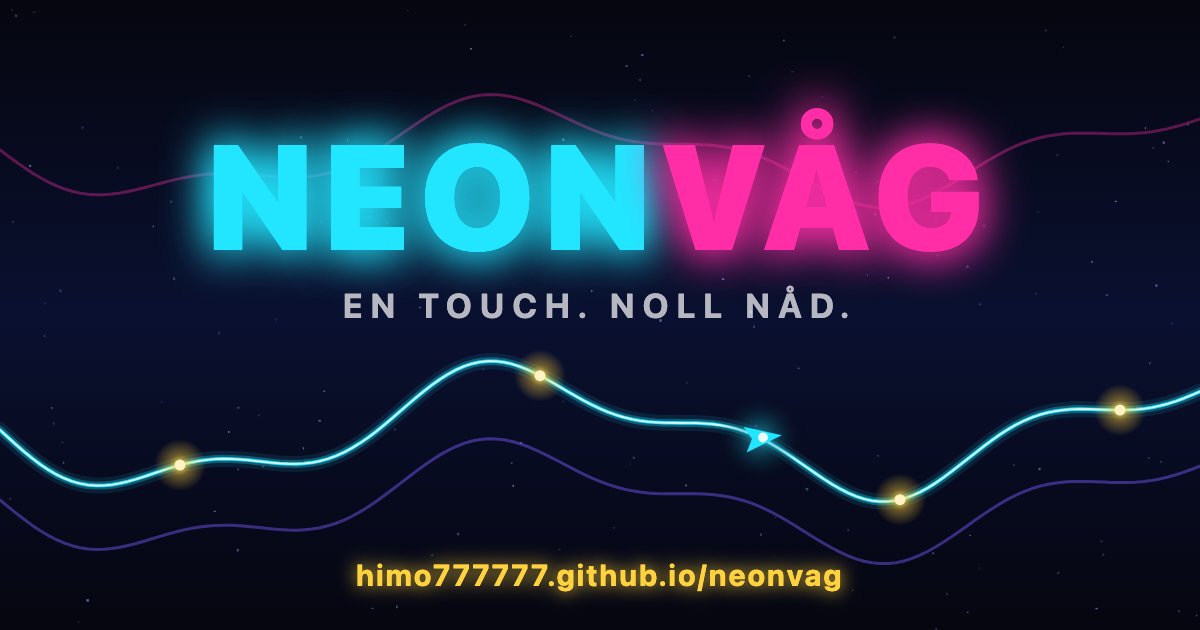
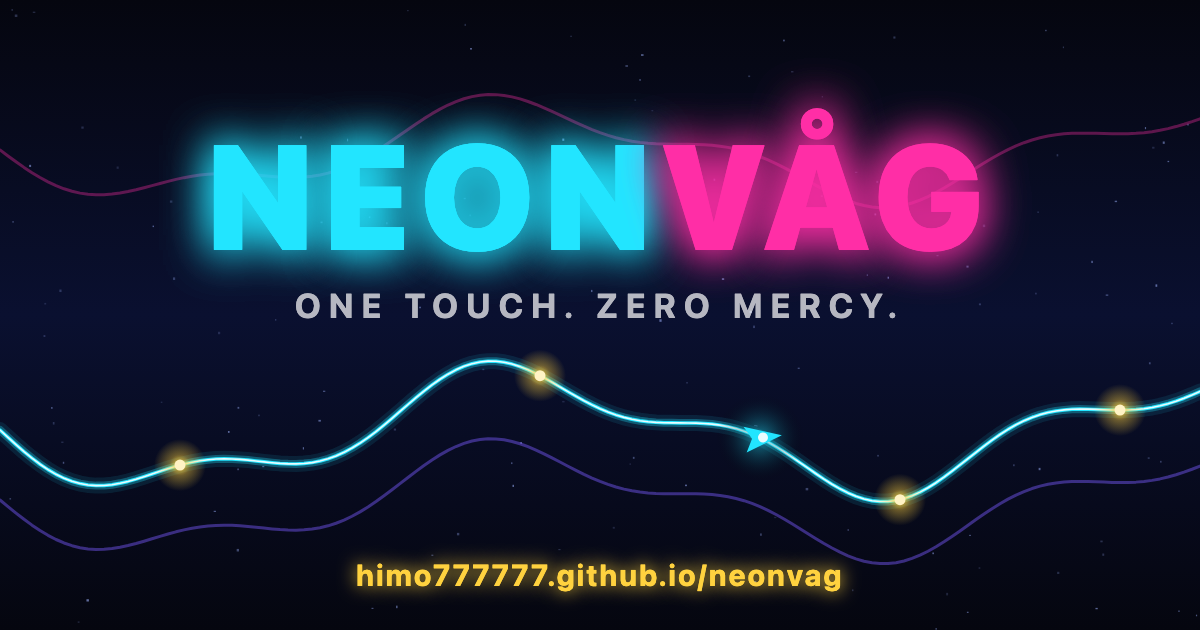
launch patch: per-level best scores + live HUD best, SUPPORT_URL button (hidden until real link), PostHog dispatch layer (BLOCKED until key), English default language + English metadata/og-image
- BEST bug: level runs now persist per-level bests (nv_lvlbest) shown on the level
  result panel; HUD best updates live when the current score passes it
- events renamed to spec: retry, share_attempt, share_success; game_start/game_over
  now fire in level mode too (with level number); dispatch whitelist of 6 events,
  anonymous device id only, no PII, no session recording
- no ads added; gameplay/levels/difficulty/design/navigation untouched

Changed region(s): [[0.2467, 0.4524, 0.74, 0.5127]]

diff --git a/index.html b/index.html
@@ -1,5 +1,5 @@
 <!DOCTYPE html>
-<html lang="sv">
+<html lang="en">
 <head>
 <meta charset="UTF-8">
 <meta name="viewport" content="width=device-width, initial-scale=1.0, maximum-scale=1.0, user-scalable=no, viewport-fit=cover">
@@ -8,19 +8,19 @@
 <meta name="apple-mobile-web-app-status-bar-style" content="black-translucent">
 <meta name="mobile-web-app-capable" content="yes">
 <title>NEONVÅG</title>
-<meta name="description" content="NEONVÅG – ett one-touch neonspel. Håll för att stiga, släpp för att dyka. Daglig bana och oändligt läge. En touch. Noll nåd.">
+<meta name="description" content="NEONVÅG – a one-touch neon wave game. Hold to rise, release to dive. Daily track, 12 levels and endless mode. One touch. Zero mercy.">
 <link rel="canonical" href="https://himo777777.github.io/neonvag/">
 <meta property="og:type" content="website">
 <meta property="og:site_name" content="NEONVÅG">
 <meta property="og:title" content="NEONVÅG">
-<meta property="og:description" content="En touch. Noll nåd. Håll = stig, släpp = dyk. Klarar du dagens bana?">
+<meta property="og:description" content="One touch. Zero mercy. Hold = rise, release = dive. Can you beat today's daily track?">
 <meta property="og:url" content="https://himo777777.github.io/neonvag/">
 <meta property="og:image" content="https://himo777777.github.io/neonvag/assets/og-image.png">
 <meta property="og:image:width" content="1200">
 <meta property="og:image:height" content="630">
 <meta name="twitter:card" content="summary_large_image">
 <meta name="twitter:title" content="NEONVÅG">
-<meta name="twitter:description" content="En touch. Noll nåd. One touch. Zero mercy.">
+<meta name="twitter:description" content="One touch. Zero mercy. Hold = rise, release = dive.">
 <meta name="twitter:image" content="https://himo777777.github.io/neonvag/assets/og-image.png">
 <style>
 :root{--sat:env(safe-area-inset-top,0px);--sab:env(safe-area-inset-bottom,0px)}
@@ -70,6 +70,7 @@ body{font-family:'Segoe UI',system-ui,-apple-system,Roboto,sans-serif;color:#fff
 .modes{margin-top:26px;pointer-events:auto}
 .modes .btn{margin-top:10px}
 .btn-gold{background:linear-gradient(90deg,#ffd23f,#ff8a3d);border:none;box-shadow:0 0 24px rgba(255,210,63,.4);color:#231a00}
+.btn-support{opacity:.55;font-size:11px;padding:10px 0;background:transparent;border:1px solid rgba(255,255,255,.14);letter-spacing:.18em}
 .overStats{margin-top:14px;font-size:12px;letter-spacing:.12em;opacity:.6}
 .dailyTag{margin-top:6px;font-size:11px;letter-spacing:.28em;color:#ffd23f;opacity:.9}
 .lvTitle{font-weight:900;letter-spacing:.28em;font-size:15px;margin-bottom:14px}
@@ -105,6 +106,7 @@ body{font-family:'Segoe UI',system-ui,-apple-system,Roboto,sans-serif;color:#fff
       <button class="btn btn-gold" id="btnDaily"></button>
       <button class="btn" id="btnLevels"></button>
       <button class="btn" id="btnEndless"></button>
+      <button class="btn btn-support hidden" id="btnSupport"></button>
     </div>
     <p class="start pulse" id="startHint"></p>
     <p class="how" id="howHint"></p>
@@ -124,6 +126,7 @@ body{font-family:'Segoe UI',system-ui,-apple-system,Roboto,sans-serif;color:#fff
     <button class="btn btn-primary" id="btnAgain"></button>
     <button class="btn" id="btnShare"></button>
     <button class="btn hidden" id="btnMenu"></button>
+    <button class="btn btn-support hidden" id="btnSupport2"></button>
     <button class="btn btn-ad" id="btnRevive"></button>
   </div>
 </div>
@@ -177,15 +180,30 @@ body{font-family:'Segoe UI',system-ui,-apple-system,Roboto,sans-serif;color:#fff
 const PLAY_URL='https://himo777777.github.io/neonvag/';
 const PLAY_URL_SHORT='himo777777.github.io/neonvag';
 const AD_DEMO=false;
-const ANALYTICS_CONFIG={provider:null /* BLOCKED: no analytics provider or keys configured at soft launch.
-   When a provider is chosen (Plausible/Umami/GA4), implement dispatch inside trackEvent(). */};
+/* Support/payment link (e.g. a Stripe Payment Link). The button stays hidden
+   until this is replaced with a real https:// URL. */
+const SUPPORT_URL='PASTE_REAL_PAYMENT_LINK_HERE';
+const supportOn=u=>/^https:\/\//.test(u===undefined?SUPPORT_URL:u);
+/* Analytics: PostHog HTTP capture. BLOCKED until a real project API key is pasted
+   into key below — until then events only buffer locally in window.nvEvents.
+   No names, emails or other personal data are collected; distinct_id is an
+   anonymous random device id. No session recording, no DOM capture. */
+const ANALYTICS_CONFIG={provider:'posthog',key:'',host:'https://eu.i.posthog.com'};
+const ANALYTICS_SEND=['game_start','game_over','retry','share_attempt','share_success','support_click'];
 window.nvEvents=window.nvEvents||[];
 function trackEvent(name,props){
   const e={name:name,props:props||{},ts:Date.now(),lang:lang};
   window.nvEvents.push(e);
   if(window.nvEvents.length>200)window.nvEvents.shift();
   try{console.debug('[nv-analytics]',name,e.props);}catch(_){}
-  if(ANALYTICS_CONFIG.provider){/* future dispatch */}
+  if(ANALYTICS_CONFIG.key&&ANALYTICS_SEND.indexOf(name)>-1){
+    try{
+      let did=localStorage.getItem('nv_did');
+      if(!did){did=Math.random().toString(36).slice(2)+Date.now().toString(36);localStorage.setItem('nv_did',did);}
+      fetch(ANALYTICS_CONFIG.host+'/capture/',{method:'POST',headers:{'Content-Type':'application/json'},
+        body:JSON.stringify({api_key:ANALYTICS_CONFIG.key,event:name,distinct_id:did,properties:e.props})});
+    }catch(_){}
+  }
 }
 const cv=document.getElementById('game'),ctx=cv.getContext('2d');
 const $=id=>document.getElementById(id);
@@ -198,7 +216,7 @@ const SAFE_TOP=()=>parseFloat(getComputedStyle(document.documentElement).getProp
 /* ---------- i18n ---------- */
 const STR={
 sv:{tag:'En touch. Noll nåd.',start:'eller tryck var som helst',how:'HÅLL = stig   ·   SLÄPP = dyk',best:'REKORD',scoreLbl:'POÄNG',share:'DELA REKORD',again:'SPELA IGEN',revive:'FORTSÄTT – ANNONSDEMO',adT:'ANNONS-DEMO',adN:'Här kopplas AdMob / Unity Ads in vid publicering.',newBest:'NYTT REKORD!',surf:'KANTSURF!',paused:'PAUSAD',resume:'TRYCK FÖR ATT FORTSÄTTA',shareT:s=>'Jag fick '+s+' poäng i NEONVÅG – kan du slå mig?',lock:n=>'Låses upp vid '+n+' poäng',shShared:'Delat!',shCopied:'Text & länk kopierad!',shCancel:'Delning avbruten',shFail:'Delning misslyckades',daily:'DAGENS BANA',endless:'OÄNDLIG',dailyBest:'DITT DAGSREKORD',dailyTag:'DAGENS BANA',frenzy:'RUS!',shareTD:(s,d)=>'Dagens bana '+d+' i NEONVÅG: '+s+' poäng – slå det om du kan!',stats:(m,o,x)=>'Distans '+m+' m · Kulor '+o+' · Max ×'+x,
-levels:'NIVÅER',lvlSelect:'VÄLJ NIVÅ',back:'TILLBAKA',next:'NÄSTA NIVÅ',retry:'FÖRSÖK IGEN',lvlN:n=>'NIVÅ '+n,lvlDone:'NIVÅ KLAR!',lvlFail:'NÄSTAN!',goalLbl:'MÅL',menu:'HUVUDMENY',
+levels:'NIVÅER',lvlSelect:'VÄLJ NIVÅ',back:'TILLBAKA',next:'NÄSTA NIVÅ',retry:'FÖRSÖK IGEN',lvlN:n=>'NIVÅ '+n,lvlDone:'NIVÅ KLAR!',lvlFail:'NÄSTAN!',goalLbl:'MÅL',menu:'HUVUDMENY',support:'SUPPORTA NEONVÅG',
 puShield:'SKÖLD!',puMagnet:'MAGNET!',puSlow:'SLOW-MO!',puShieldUsed:'SKÖLDEN RÄDDADE DIG!',
 achUnlocked:'🏆 PRESTATION!',streak:'DAGLIG SVIT',streakDays:n=>'🔥 '+n+(n===1?' dag':' dagar'),
 lockLvl:n=>'Klara '+n+' nivåer för att låsa upp',lockAch:a=>'Kräver prestation: '+a,lockStreak:n=>'Kräver '+n+' dagars svit',
@@ -214,7 +232,7 @@ ach_streak3:'TREDAGARSSVIT',achd_streak3:'Spela dagens bana 3 dagar i rad',
 ach_streak7:'VECKOSVIT',achd_streak7:'7 dagar i rad',
 ach_level5:'BANVETERAN',achd_level5:'Klara nivå 5'},
 en:{tag:'One touch. Zero mercy.',start:'or tap anywhere',how:'HOLD = rise   ·   RELEASE = dive',best:'BEST',scoreLbl:'SCORE',share:'SHARE SCORE',again:'PLAY AGAIN',revive:'CONTINUE – AD DEMO',adT:'AD DEMO',adN:'AdMob / Unity Ads plugs in here on release.',newBest:'NEW BEST!',surf:'EDGE SURF!',paused:'PAUSED',resume:'TAP TO RESUME',shareT:s=>'I scored '+s+' in NEONVÅG – beat that!',lock:n=>'Unlocks at '+n+' points',shShared:'Shared!',shCopied:'Text & link copied!',shCancel:'Share cancelled',shFail:'Share failed',daily:'DAILY TRACK',endless:'ENDLESS',dailyBest:'YOUR DAILY BEST',dailyTag:'DAILY TRACK',frenzy:'RUSH!',shareTD:(s,d)=>'Daily track '+d+' in NEONVÅG: '+s+' points – beat it if you can!',stats:(m,o,x)=>'Distance '+m+' m · Orbs '+o+' · Max ×'+x,
-levels:'LEVELS',lvlSelect:'SELECT LEVEL',back:'BACK',next:'NEXT LEVEL',retry:'TRY AGAIN',lvlN:n=>'LEVEL '+n,lvlDone:'LEVEL COMPLETE!',lvlFail:'SO CLOSE!',goalLbl:'GOAL',menu:'MAIN MENU',
+levels:'LEVELS',lvlSelect:'SELECT LEVEL',back:'BACK',next:'NEXT LEVEL',retry:'TRY AGAIN',lvlN:n=>'LEVEL '+n,lvlDone:'LEVEL COMPLETE!',lvlFail:'SO CLOSE!',goalLbl:'GOAL',menu:'MAIN MENU',support:'SUPPORT NEONVÅG',
 puShield:'SHIELD!',puMagnet:'MAGNET!',puSlow:'SLOW-MO!',puShieldUsed:'SHIELD SAVED YOU!',
 achUnlocked:'🏆 ACHIEVEMENT!',streak:'DAILY STREAK',streakDays:n=>'🔥 '+n+(n===1?' day':' days'),
 lockLvl:n=>'Clear '+n+' levels to unlock',lockAch:a=>'Requires achievement: '+a,lockStreak:n=>'Requires a '+n+'-day streak',
@@ -229,7 +247,7 @@ ach_shieldSave:'SAVED BY THE SHIELD',achd_shieldSave:'Survive a hit with the shi
 ach_streak3:'THREE-DAY STREAK',achd_streak3:'Play the daily track 3 days running',
 ach_streak7:'WEEK STREAK',achd_streak7:'7 days running',
 ach_level5:'TRACK VETERAN',achd_level5:'Clear level 5'}};
-let lang=localStorage.getItem('nv_lang')||'sv';
+let lang=localStorage.getItem('nv_lang')||'en';
 const t=k=>STR[lang][k]||k;
 
 /* ---------- audio (Web Audio synth, no files needed) ---------- */
@@ -398,6 +416,11 @@ try{lvlStars=JSON.parse(localStorage.getItem('nv_lvlstars')||'[]');}catch(_){lvl
 if(!Array.isArray(lvlStars))lvlStars=[];
 while(lvlStars.length<LEVELS.length)lvlStars.push(0);
 function saveLevelStars(i,s){lvlStars[i]=Math.max(lvlStars[i]||0,s);localStorage.setItem('nv_lvlstars',JSON.stringify(lvlStars));}
+let lvlBest;
+try{lvlBest=JSON.parse(localStorage.getItem('nv_lvlbest')||'[]');}catch(_){lvlBest=[];}
+if(!Array.isArray(lvlBest))lvlBest=[];
+while(lvlBest.length<LEVELS.length)lvlBest.push(0);
+function saveLevelBest(i,sc){if(sc>(lvlBest[i]||0)){lvlBest[i]=sc;localStorage.setItem('nv_lvlbest',JSON.stringify(lvlBest));return true;}return false;}
 function lvlUnlocked(i){return i===0||(lvlStars[i-1]||0)>0;}
 function lvlCleared(){return lvlStars.filter(x=>x>0).length;}
 function starStr(n){return '★'.repeat(n)+'☆'.repeat(3-n);}
@@ -593,7 +616,7 @@ function die(){
   const sc=Math.floor(run.score);
   if(mode!=='level'&&sc>hi){hi=sc;localStorage.setItem('nv_hi',''+hi);run.newBest=true;}
   if(mode==='daily'){const db=getDailyBest();if(sc>db){localStorage.setItem('nv_d'+DAY,''+sc);run.newDaily=true;}}
-  if(mode==='level')trackEvent('level_fail',{level:curLvlIdx});
+  if(mode==='level'){run.newBest=saveLevelBest(curLvlIdx,sc)&&sc>0;trackEvent('level_fail',{level:curLvlIdx});}
   unlockAch('firstFlight');
   if(sc>=2500)unlockAch('score2500');
 }
@@ -606,6 +629,7 @@ function win(){
   state=M.WIN;dieT=0;timeScale=.5;
   run.won=true;run.stars=calcStars();
   saveLevelStars(curLvlIdx,run.stars);
+  run.newBest=saveLevelBest(curLvlIdx,Math.floor(run.score));
   /* celebration: fireworks ABOVE/AHEAD of the ship (never on it — must not read as a crash), no shake */
   const cols=['#ffd23f','#22e5ff','#ff2ea6','#b6ff2e','#ffffff'];
   for(let i=0;i<5;i++)burst(run.x+(i-1)*70*S,Math.max(60*S,run.py-H*.22-(i%2)*H*.1),cols[i],22);
@@ -642,7 +666,7 @@ function renderOverPanel(){
     $('overStars').textContent=starStr(run.won?run.stars:0);
     $('newBest').textContent=run.won?t('lvlDone'):t('lvlFail');
     $('newBest').classList.remove('hidden');
-    $('bestLabel2').textContent=t('best');$('finalBest').textContent=hi;
+    $('bestLabel2').textContent=t('best');$('finalBest').textContent=lvlBest[curLvlIdx]||0;
     $('btnAgain').textContent=t('retry');
     $('dailyTag').classList.add('hidden');
   }else{
@@ -661,8 +685,8 @@ function showOver(){
   if(mode!=='level'){
     runs++;localStorage.setItem('nv_runs',''+runs);
     /* [MONET] interstitial ad: if(runs%3===0) showInterstitialAd(); */
-    trackEvent('game_over',{mode:mode,score:Math.floor(run.score),dist:Math.floor(run.dist/(46*S)),orbs:run.orbs,maxMult:run.maxMult,newBest:run.newBest,newDaily:run.newDaily});
   }
+  trackEvent('game_over',{mode:mode,level:mode==='level'?curLvlIdx+1:null,score:Math.floor(run.score),dist:Math.floor(run.dist/(46*S)),orbs:run.orbs,maxMult:run.maxMult,newBest:run.newBest,newDaily:run.newDaily});
   renderOverPanel();
   refreshDots();
   show($('over'));show($('toggles'));
@@ -673,6 +697,7 @@ function startGame(m,lvlIdx){
   mode=m||'endless';
   if(mode==='level'){
     curLvlIdx=lvlIdx|0;curLvl=LEVELS[curLvlIdx];
+    trackEvent('game_start',{mode:'level',level:curLvlIdx+1});
     trackEvent('level_start',{level:curLvlIdx});
     newRun(false,curLvl.seed);
   }else{
@@ -775,6 +800,9 @@ function applyStrings(){
   $('lvTitle').textContent=t('lvlSelect');
   $('btnLvBack').textContent=t('back');
   $('btnNext').textContent=t('next');
+  $('btnSupport').textContent=t('support');
+  $('btnSupport2').textContent=t('support');
+  updateSupportBtns();
   $('achHead').textContent=t('achUnlocked');
   $('achCount').textContent='🏆 '+achSet.size+'/'+ACH_TOTAL;
   $('streakLabel').textContent=t('streak');
@@ -795,8 +823,8 @@ function buildLevels(){
   });
 }
 $('btnAgain').onclick=()=>{tone(440,.08);
-  if(mode==='level'){trackEvent('replay_start',{mode:'level',level:curLvlIdx});startGame('level',curLvlIdx);}
-  else{trackEvent('replay_start',{mode:mode});startGame(mode);}
+  if(mode==='level'){trackEvent('retry',{mode:'level',level:curLvlIdx+1});startGame('level',curLvlIdx);}
+  else{trackEvent('retry',{mode:mode});startGame(mode);}
 };
 $('btnNext').onclick=()=>{tone(440,.08);startGame('level',curLvlIdx+1);};
 $('btnMenu').onclick=()=>{
@@ -810,6 +838,18 @@ $('btnLvBack').onclick=()=>{tone(440,.06);hide($('levels'));show($('menu'));};
 $('btnDaily').onclick=()=>{tone(440,.08);startGame('daily');};
 $('btnEndless').onclick=()=>{tone(440,.08);startGame('endless');};
 $('btnShare').onclick=()=>{shareScore();};
+function updateSupportBtns(u){
+  const on=supportOn(u);
+  $('btnSupport').classList.toggle('hidden',!on);
+  $('btnSupport2').classList.toggle('hidden',!on);
+}
+function openSupport(){
+  if(!supportOn())return;
+  trackEvent('support_click',{});
+  try{window.open(SUPPORT_URL,'_blank','noopener');}catch(e){}
+}
+$('btnSupport').onclick=openSupport;
+$('btnSupport2').onclick=openSupport;
 $('btnRevive').onclick=()=>{if(!AD_DEMO)return;tone(440,.08);startAd();};
 $('soundBtn').onclick=()=>{ac();muted=!muted;localStorage.setItem('nv_muted',muted?'1':'0');$('soundBtn').textContent=muted?'🔇':'🔊';if(musicBus)musicBus.gain.value=muted?0:1;if(!muted)tone(660,.08);};
 $('langBtn').onclick=()=>{lang=lang==='sv'?'en':'sv';localStorage.setItem('nv_lang',lang);trackEvent('language_change',{to:lang});applyStrings();tone(660,.06);};
@@ -989,7 +1029,7 @@ function drawHUD(){
   ctx.textAlign='right';
   ctx.font='700 '+Math.round(13*S)+'px "Segoe UI",system-ui,sans-serif';
   ctx.fillStyle='rgba(255,255,255,.55)';
-  ctx.fillText(mode==='level'&&curLvl?t('lvlN')(curLvlIdx+1):t('best')+' '+hi,W-16*S,st+40*S);
+  ctx.fillText(mode==='level'&&curLvl?t('lvlN')(curLvlIdx+1):t('best')+' '+(run.auto?hi:Math.max(hi,Math.floor(run.score))),W-16*S,st+40*S);
   if(mode==='level'&&curLvl){
     ctx.textAlign='center';
     ctx.font='800 '+Math.round(15*S)+'px "Segoe UI",system-ui,sans-serif';
@@ -1074,7 +1114,7 @@ async function shareScore(){
   /* PLAY_URL is ALWAYS part of the share text, incl. when a file is attached —
      several Android targets drop a separate url: member on file shares. */
   const txt=(mode==='daily'?t('shareTD')(sc,dayStr()):t('shareT')(sc))+'\n'+PLAY_URL;
-  trackEvent('share_click',{mode:mode,score:sc});
+  trackEvent('share_attempt',{mode:mode,score:sc});
   let card=null;
   try{card=shareCard(sc);}catch(e){}
   /* 1) native share with image */
@@ -1084,7 +1124,7 @@ async function shareScore(){
       const file=new File([blob],'neonvag.png',{type:'image/png'});
       if(blob&&navigator.canShare({files:[file]})){
         await navigator.share({files:[file],text:txt,title:'NEONVÅG'});
-        toast(t('shShared'));trackEvent('share_handoff',{kind:'file'});
+        toast(t('shShared'));trackEvent('share_success',{kind:'file'});
         return;
       }
     }catch(e){
@@ -1095,7 +1135,7 @@ async function shareScore(){
   if(navigator.share){
     try{
       await navigator.share({text:txt,title:'NEONVÅG'});
-      toast(t('shShared'));trackEvent('share_handoff',{kind:'text'});
+      toast(t('shShared'));trackEvent('share_success',{kind:'text'});
       return;
     }catch(e){
       if(e&&e.name==='AbortError'){toast(t('shCancel'));return;}
